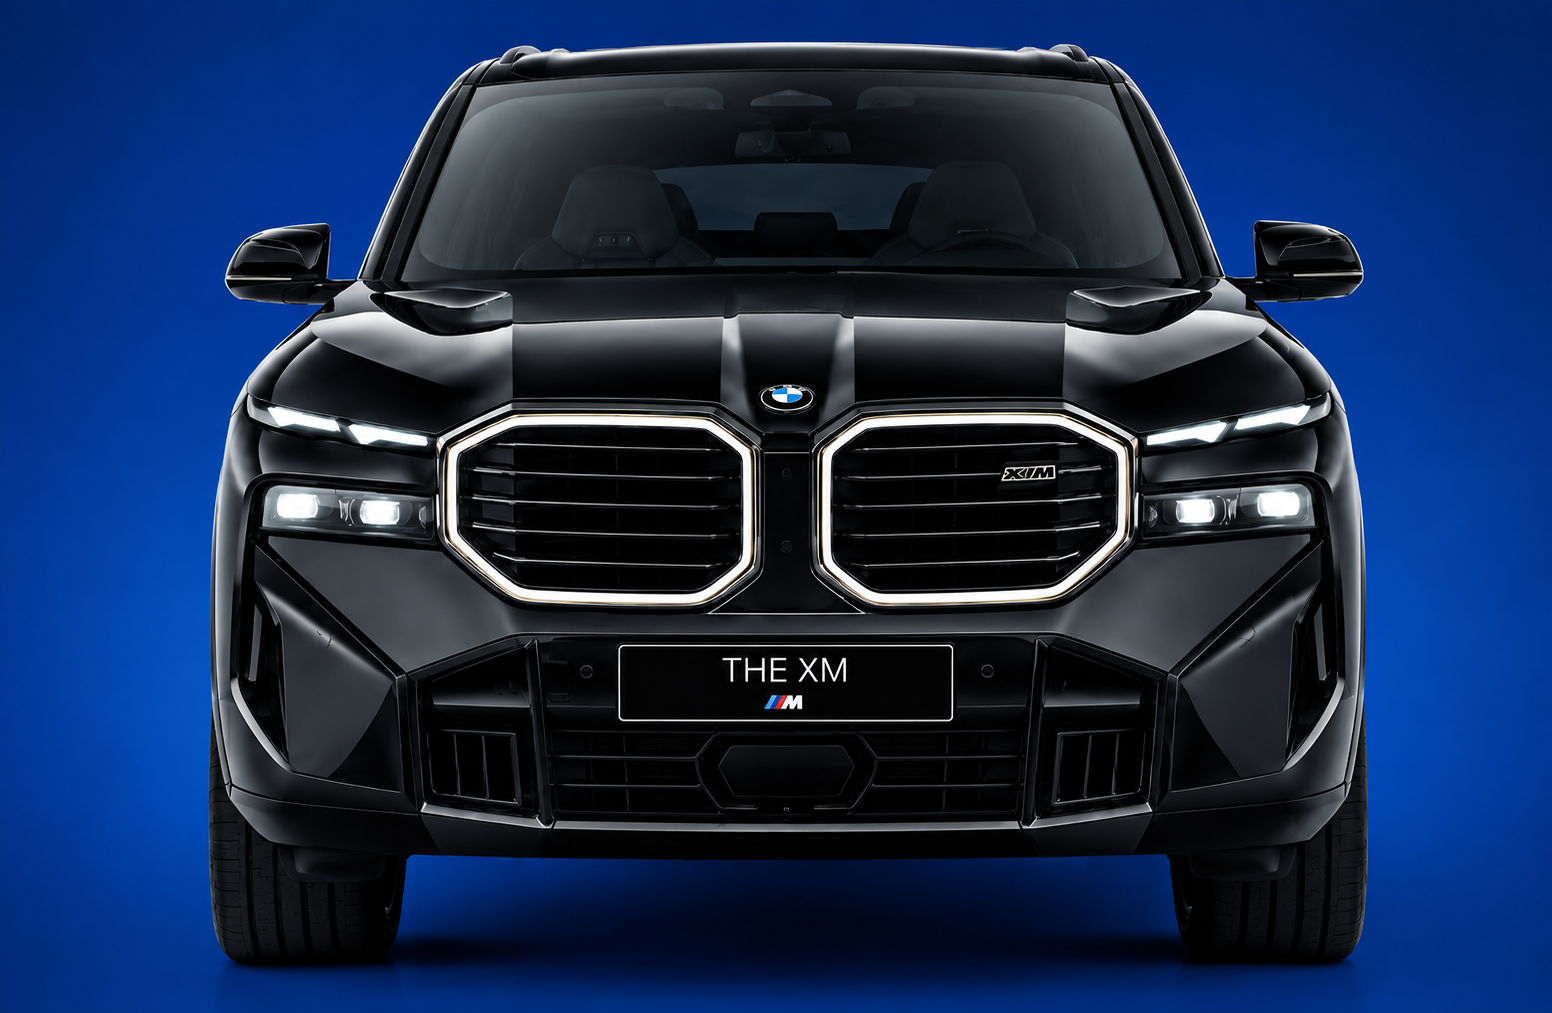
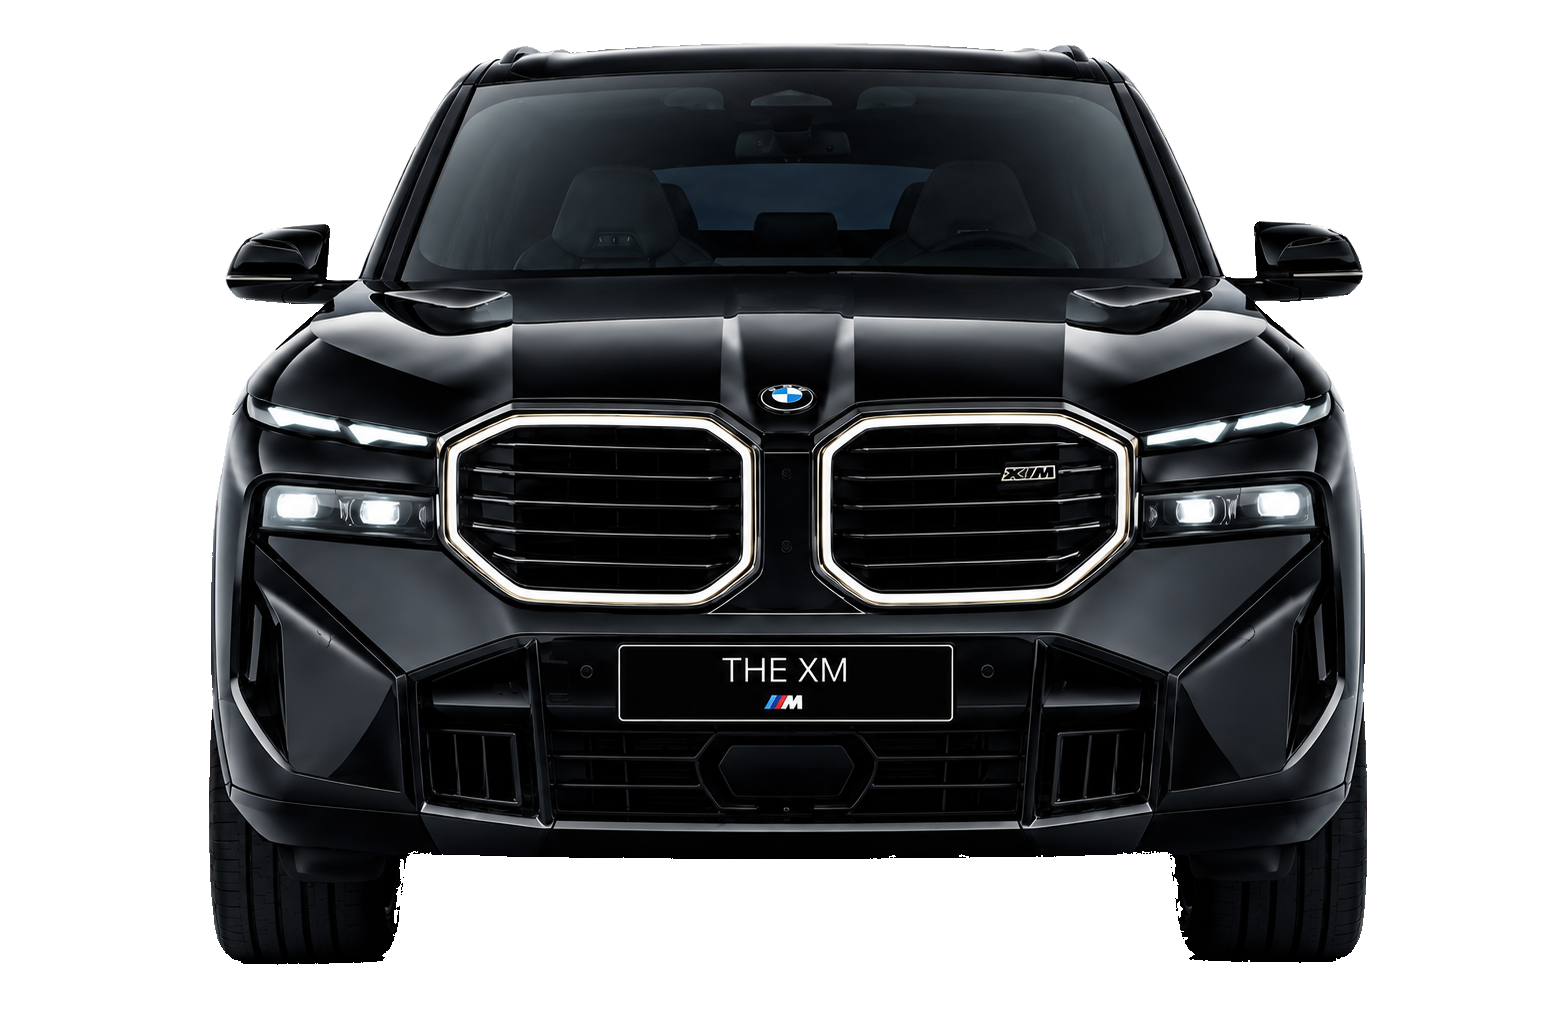
correction hero section

diff --git a/frontend/admin_vendor/src/Static_web/Home.jsx b/frontend/admin_vendor/src/Static_web/Home.jsx
@@ -60,85 +60,17 @@ const Home = () => {
             </div>
           </div>
 
-          {/* Right Column - Image & Glowing Ring */}
-          <div className="z-10 flex justify-center items-center w-full px-4 md:px-0 relative group min-h-[400px]">
-            {/* Glowing Neon Ring */}
-            <div className="absolute w-[320px] h-[320px] md:w-[450px] md:h-[450px] rounded-full border-2 border-blue-500/35 shadow-[0_0_60px_rgba(37,99,235,0.35)] pointer-events-none z-0 animate-[pulse_3s_infinite]" />
-            
-            {/* Ambient background glow */}
-            <div className="absolute w-[300px] md:w-[400px] h-[300px] md:h-[400px] bg-[#0c2b5c]/30 rounded-full blur-3xl pointer-events-none z-0" />
-            
+          {/* Right Column - Image */}
+          <div className="z-10 flex justify-center items-center w-full px-4 md:px-0 relative group min-h-[420px] md:min-h-[520px]">
             <img
               src={blueCar}
               alt="Car"
-              className="w-full max-w-[360px] md:max-w-[460px] max-h-[360px] md:max-h-[460px] object-cover object-bottom transition-all duration-500 hover:scale-[1.02] relative z-10 hero-image-mask"
+              className="w-full max-w-[420px] md:max-w-[560px] lg:max-w-[640px] h-auto object-contain transition-all duration-500 hover:scale-[1.02] relative z-10"
             />
           </div>
 
         </div>
 
-        {/* Features Strip */}
-        <div className="container mx-auto px-6 md:px-12 mt-16 md:mt-20 w-full relative z-10">
-          <div className="border border-blue-500/10 bg-[#071735]/40 backdrop-blur-md rounded-2xl p-6 md:p-8 grid grid-cols-1 sm:grid-cols-2 lg:grid-cols-4 gap-6 text-left shadow-lg">
-            
-            {/* Feature 1 */}
-            <div className="flex items-center gap-4">
-              <div className="w-12 h-12 rounded-full border border-blue-500/20 bg-[#0c244c]/60 flex items-center justify-center text-blue-400 shrink-0 shadow-inner">
-                <svg className="w-5 h-5" fill="none" viewBox="0 0 24 24" stroke="currentColor">
-                  <path strokeLinecap="round" strokeLinejoin="round" strokeWidth={2} d="M9 12l2 2 4-4m5.618-4.016A11.955 11.955 0 0112 2.944a11.955 11.955 0 01-8.618 3.04A12.02 12.02 0 003 9c0 5.591 3.824 10.29 9 11.622 5.176-1.332 9-6.03 9-11.622 0-1.042-.133-2.052-.382-3.016z" />
-                </svg>
-              </div>
-              <div>
-                <h4 className="font-bold text-xs text-white uppercase tracking-wider">Trusted Vendors</h4>
-                <p className="text-[10px] text-gray-400 mt-0.5">Quality you can rely on</p>
-                <div className="w-8 h-[2px] bg-[#ff9200] mt-1.5" />
-              </div>
-            </div>
-
-            {/* Feature 2 */}
-            <div className="flex items-center gap-4">
-              <div className="w-12 h-12 rounded-full border border-blue-500/20 bg-[#0c244c]/60 flex items-center justify-center text-blue-400 shrink-0 shadow-inner">
-                <svg className="w-5 h-5" fill="none" viewBox="0 0 24 24" stroke="currentColor">
-                  <path strokeLinecap="round" strokeLinejoin="round" strokeWidth={2} d="M20 7l-8-4-8 4m16 0l-8 4m8-4v10l-8 4m0-10L4 7m8 4v10M4 7v10l8 4" />
-                </svg>
-              </div>
-              <div>
-                <h4 className="font-bold text-xs text-white uppercase tracking-wider">Wide Selection</h4>
-                <p className="text-[10px] text-gray-400 mt-0.5">Everything for every vehicle</p>
-                <div className="w-8 h-[2px] bg-[#ff9200] mt-1.5" />
-              </div>
-            </div>
-
-            {/* Feature 3 */}
-            <div className="flex items-center gap-4">
-              <div className="w-12 h-12 rounded-full border border-blue-500/20 bg-[#0c244c]/60 flex items-center justify-center text-blue-400 shrink-0 shadow-inner">
-                <svg className="w-5 h-5" fill="none" viewBox="0 0 24 24" stroke="currentColor">
-                  <path strokeLinecap="round" strokeLinejoin="round" strokeWidth={2} d="M18.364 5.636l-3.536 3.536m0 5.656l3.536 3.536M9.172 9.172L5.636 5.636m3.536 9.192l-3.536 3.536M21 12a9 9 0 11-18 0 9 9 0 0118 0zm-5 0a4 4 0 11-8 0 4 4 0 018 0z" />
-                </svg>
-              </div>
-              <div>
-                <h4 className="font-bold text-xs text-white uppercase tracking-wider">Support 24/7</h4>
-                <p className="text-[10px] text-gray-400 mt-0.5">We're here to help</p>
-                <div className="w-8 h-[2px] bg-[#ff9200] mt-1.5" />
-              </div>
-            </div>
-
-            {/* Feature 4 */}
-            <div className="flex items-center gap-4">
-              <div className="w-12 h-12 rounded-full border border-blue-500/20 bg-[#0c244c]/60 flex items-center justify-center text-blue-400 shrink-0 shadow-inner">
-                <svg className="w-5 h-5" fill="none" viewBox="0 0 24 24" stroke="currentColor">
-                  <path strokeLinecap="round" strokeLinejoin="round" strokeWidth={2} d="M12 15v2m-6 4h12a2 2 0 002-2v-6a2 2 0 00-2-2H6a2 2 0 00-2 2v6a2 2 0 002 2zm10-10V7a4 4 0 00-8 0v4h8z" />
-                </svg>
-              </div>
-              <div>
-                <h4 className="font-bold text-xs text-white uppercase tracking-wider">Secure Shopping</h4>
-                <p className="text-[10px] text-gray-400 mt-0.5">Safe payments & protection</p>
-                <div className="w-8 h-[2px] bg-[#ff9200] mt-1.5" />
-              </div>
-            </div>
-
-          </div>
-        </div>
       </section>
 
       <MobileExperience />
